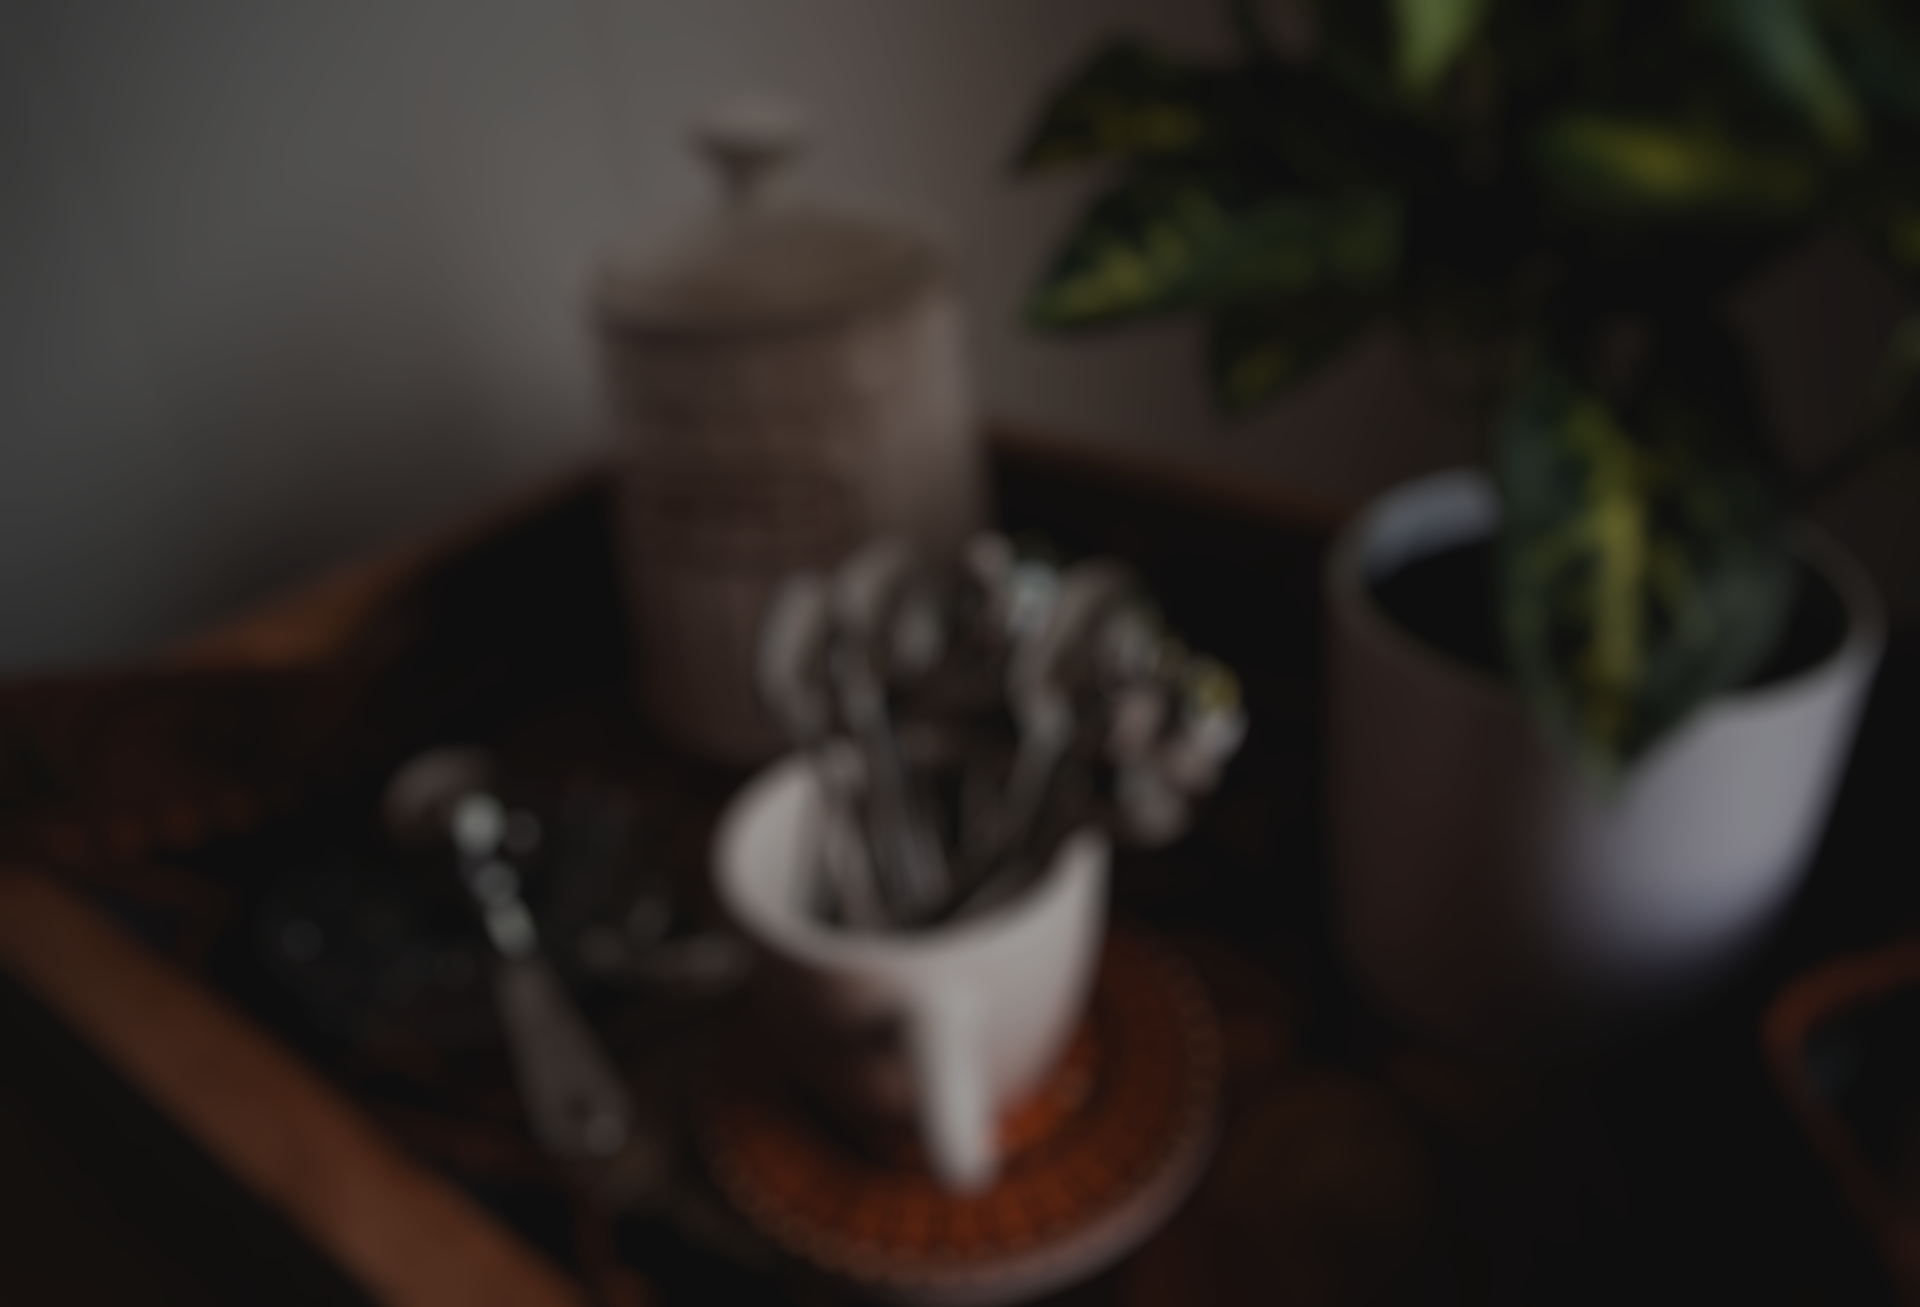
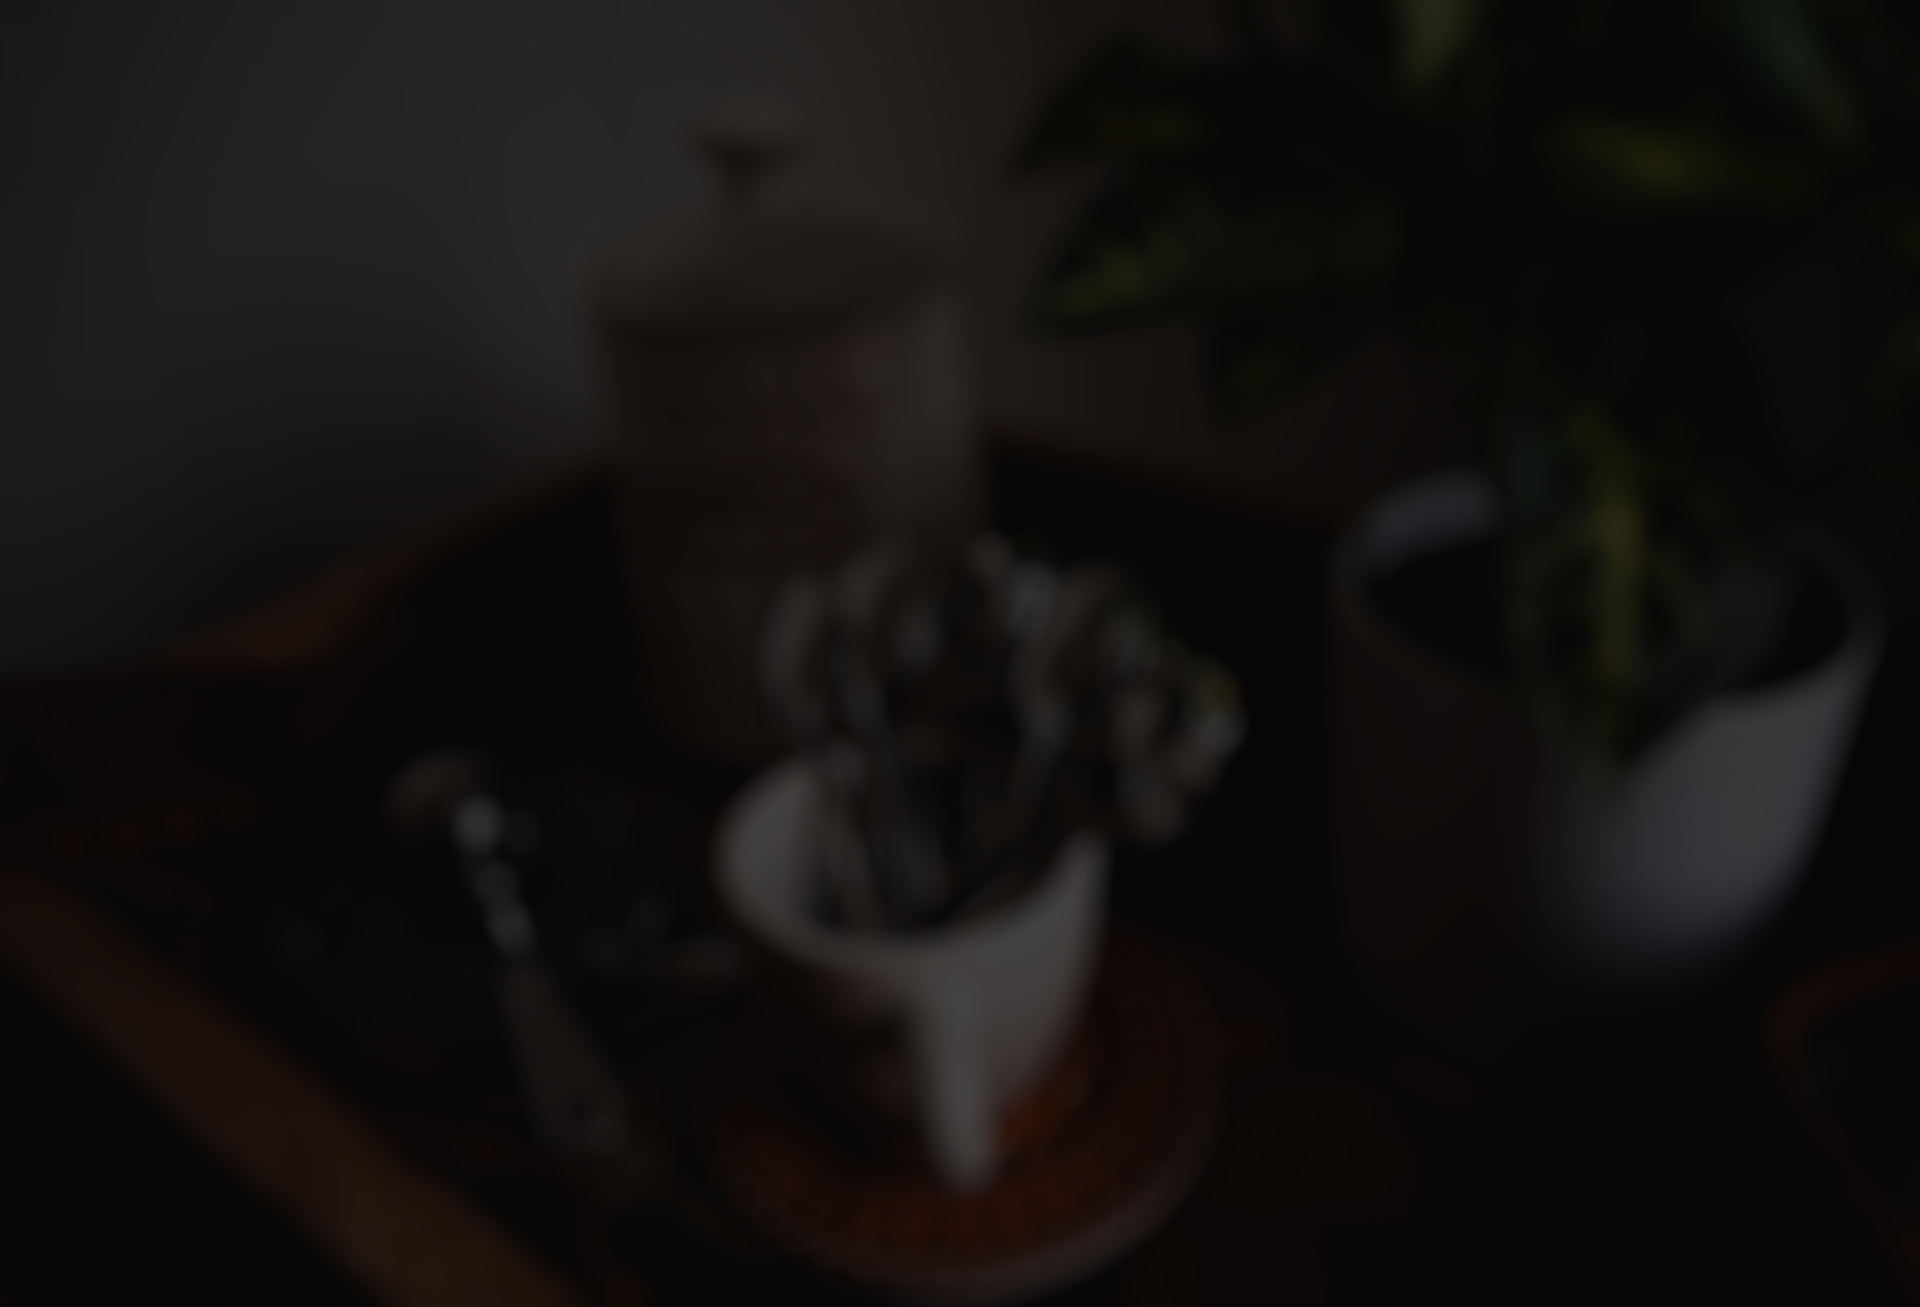
Cuidando de imagens.

diff --git a/src/EstilosGlobais/index.jsx b/src/EstilosGlobais/index.jsx
@@ -1,5 +1,5 @@
 import { createGlobalStyle } from "styled-components";
-import bg from "/src/assets/images/al_1.png";
+import bg from "/src/assets/images/bg.png";
 import bg_2 from "/src/assets/images/al_t.png";
 
 const EstilosGlobais = createGlobalStyle`
